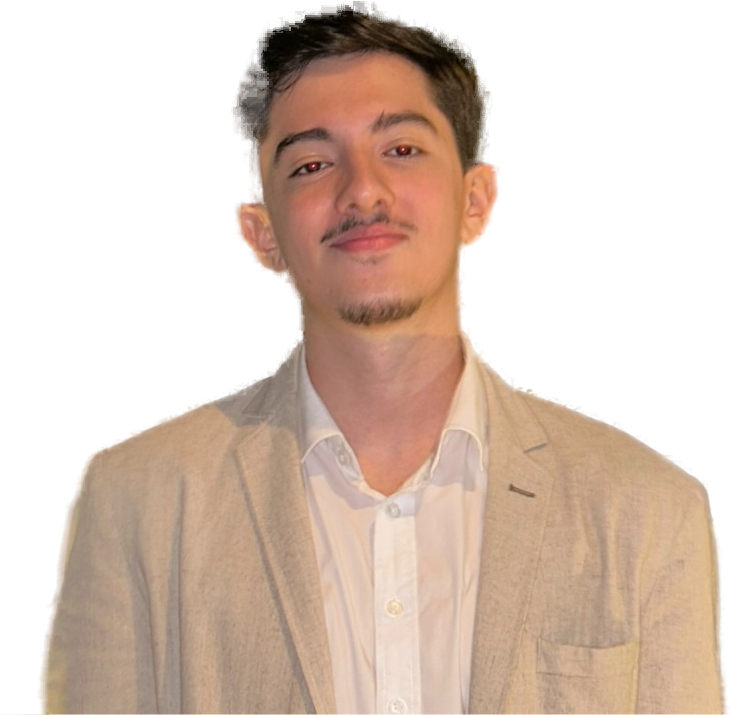
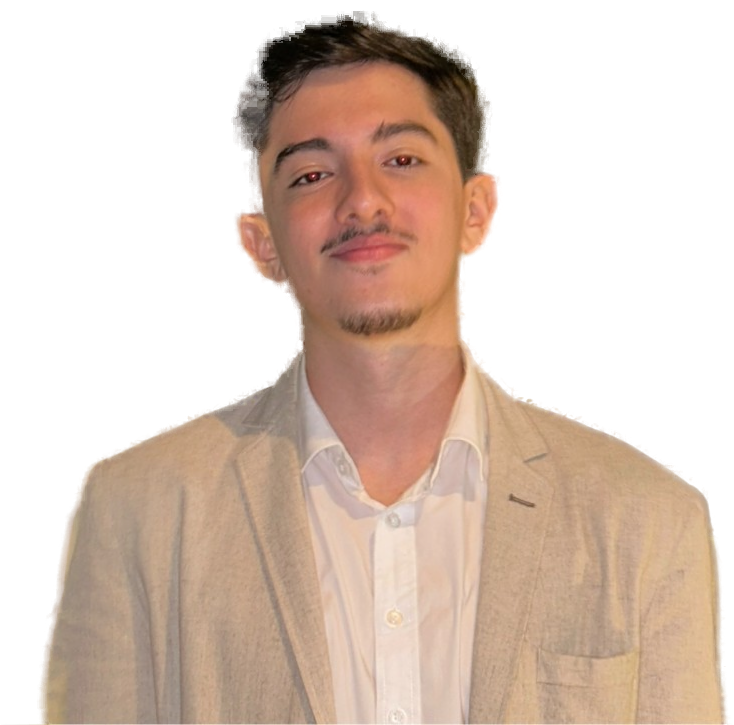
Usa a foto original no círculo e a fonte do título na tela de carregamento

diff --git a/src/styles/global.css b/src/styles/global.css
@@ -2,7 +2,6 @@
 @import '@fontsource-variable/bricolage-grotesque/standard.css'; /* inclui os eixos wdth e opsz */
 @import '@fontsource-variable/inter-tight';
 @import '@fontsource/jetbrains-mono/400.css';
-@import '@fontsource/instrument-serif/400.css';
 
 /* Tokens do tema: verde-escuro por padrão */
 @theme {
@@ -20,7 +19,6 @@
   --font-display: 'Bricolage Grotesque Variable', system-ui, sans-serif;
   --font-sans: 'Inter Tight Variable', system-ui, sans-serif;
   --font-mono: 'JetBrains Mono', ui-monospace, monospace;
-  --font-serif: 'Instrument Serif', Georgia, serif;
 }
 
 @layer base {
